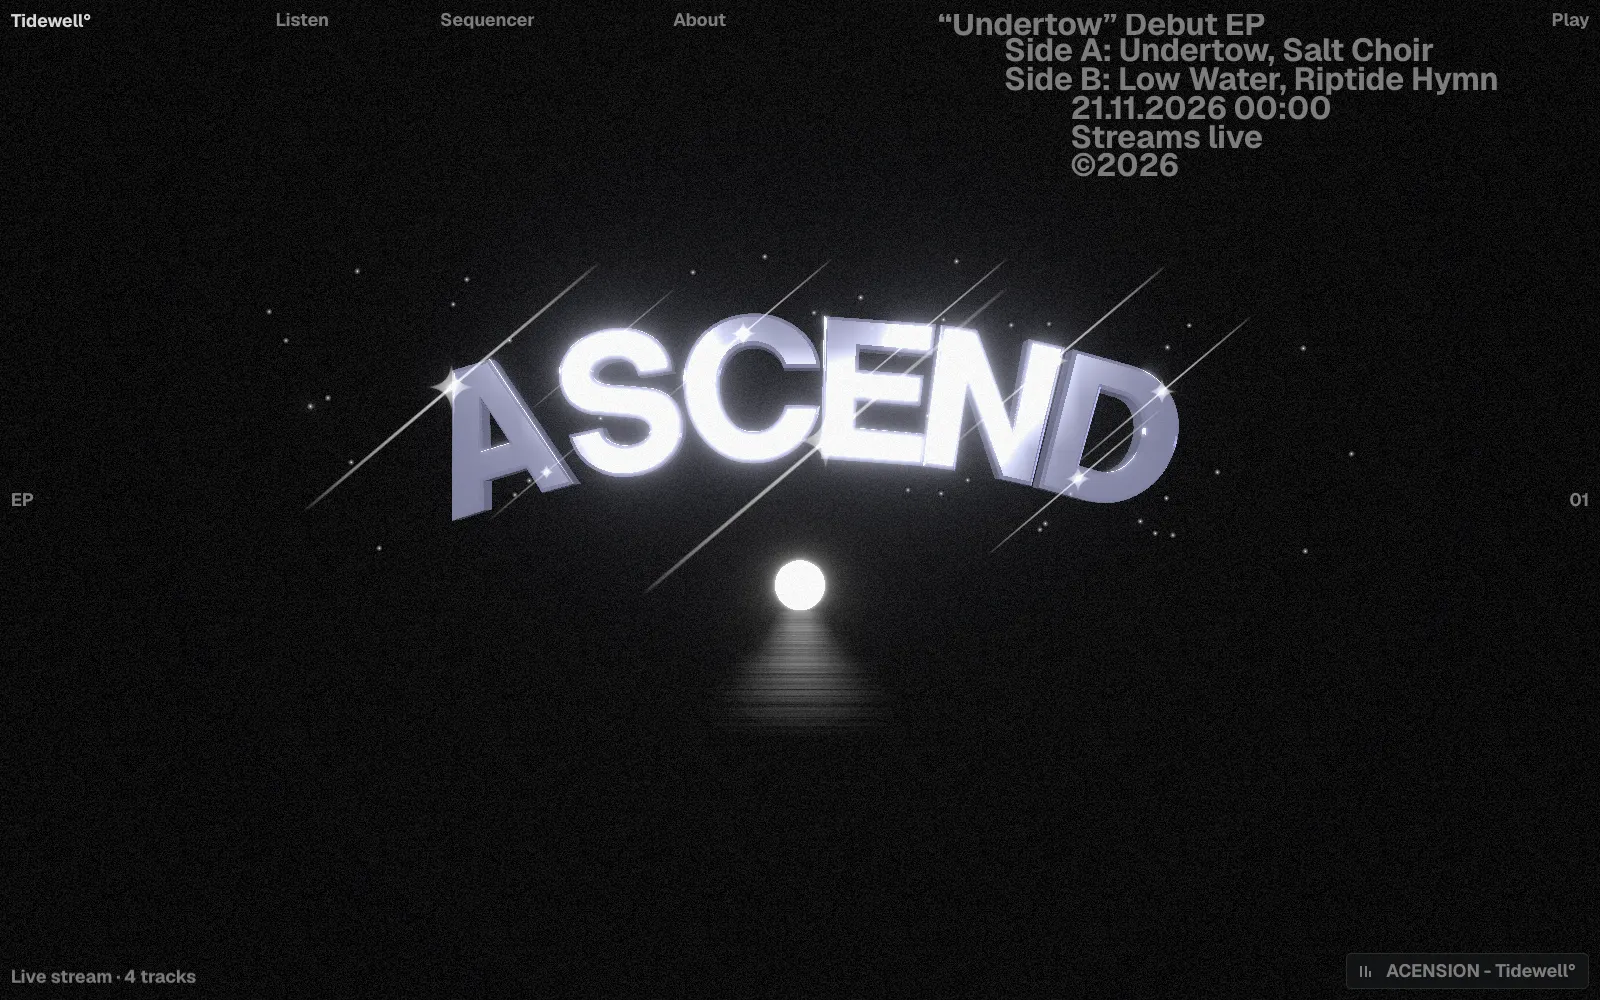
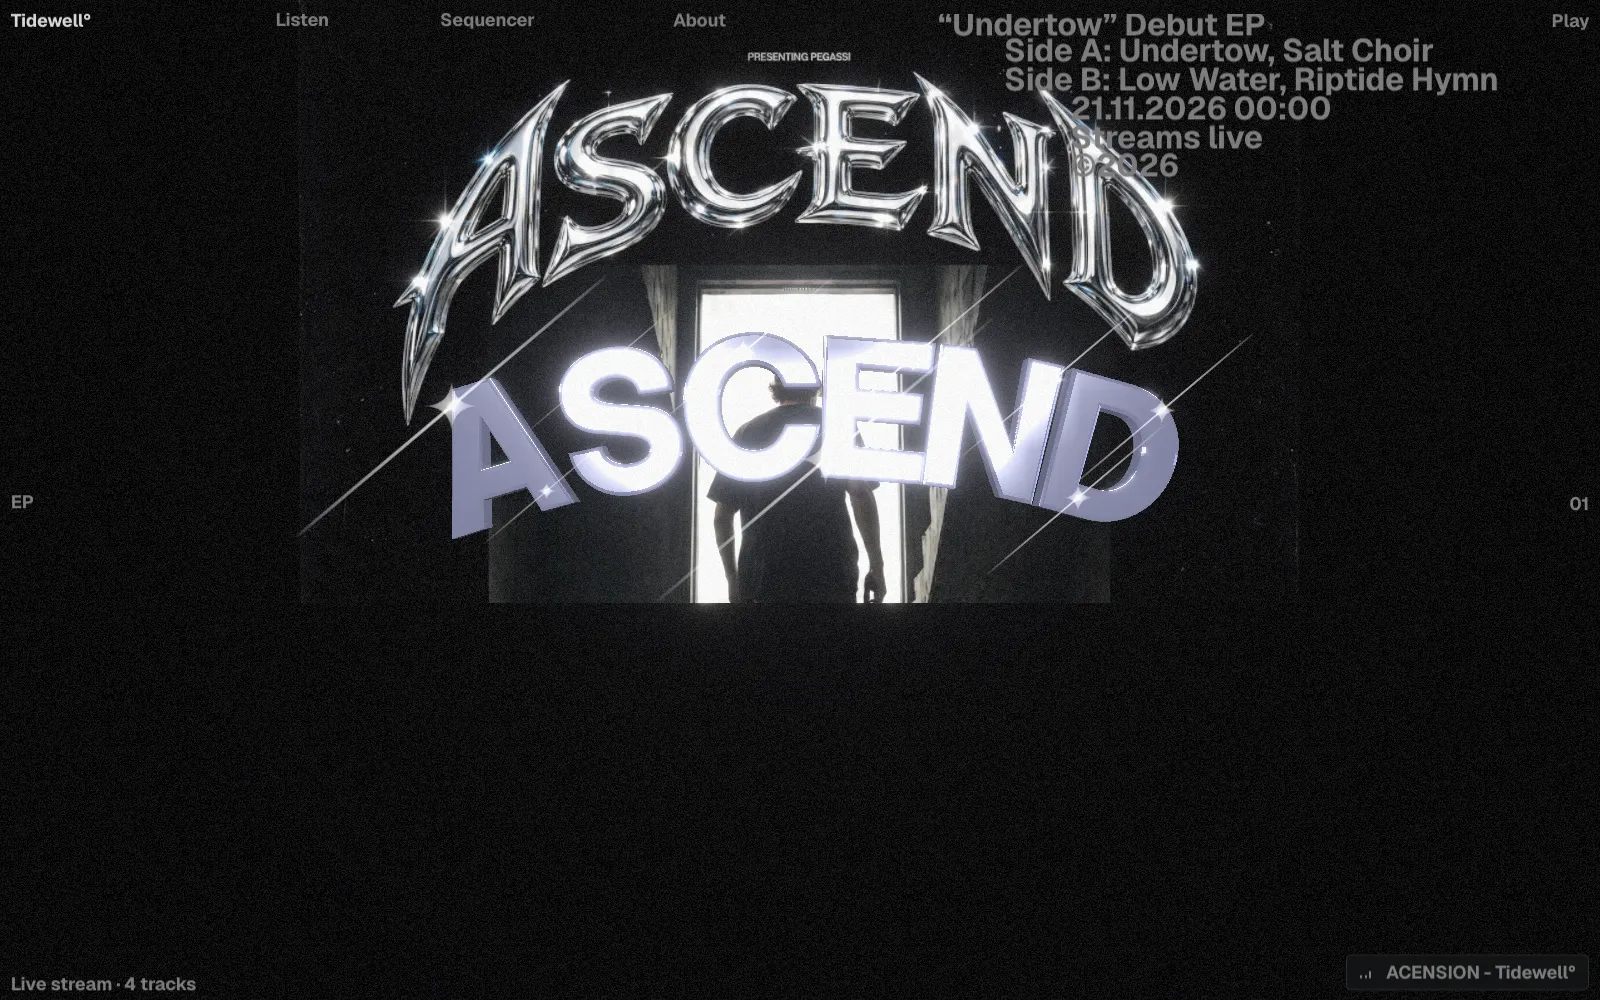
Hero artwork layer in the scene: cover pops on entry, dissolves on scroll

diff --git a/src/components/Scene.tsx b/src/components/Scene.tsx
@@ -3,7 +3,7 @@
 import * as THREE from "three";
 import { Suspense, useEffect, useMemo, useRef, useSyncExternalStore } from "react";
 import { Canvas, useFrame, useLoader, useThree } from "@react-three/fiber";
-import { Environment, Lightformer, Sparkles } from "@react-three/drei";
+import { Environment, Lightformer, Sparkles, useTexture } from "@react-three/drei";
 import { Bloom, EffectComposer, Vignette } from "@react-three/postprocessing";
 import { FontLoader } from "three/examples/jsm/loaders/FontLoader.js";
 import { TextGeometry } from "three/examples/jsm/geometries/TextGeometry.js";
@@ -14,6 +14,42 @@ const still = () => matchMedia("(prefers-reduced-motion: reduce)").matches;
 let gl: boolean | undefined; // probe once: useSyncExternalStore calls getSnapshot on every render
 const webgl = () => (gl ??= (() => { try { const c = document.createElement("canvas"); return !!(c.getContext("webgl2") || c.getContext("webgl")); } catch { return false; } })());
 const noop = () => () => {};
+
+// 1 = the hero artwork is fully shown, 0 = scrolled away / under the sea. Written by HeroArt,
+// read by the sea elements so they stay hidden while the artwork is on screen.
+const artState = { t: 1 };
+
+// The cover artwork lives inside the scene, behind the chrome word: the click that enters sets a
+// born-time (the picture settles from a slight over-scale — the pop) and scrolling dissolves it
+// into the sea the word floats over. Contain-fit against the frustum; the artwork's own black
+// surround blends into the page, so its edges never show.
+function HeroArt() {
+  const tex = useTexture("/media/ascend-cover.jpeg");
+  const mesh = useRef<THREE.Mesh>(null!), mat = useRef<THREE.MeshBasicMaterial>(null!);
+  const born = useRef(0);
+  useEffect(() => {
+    const on = () => { born.current = performance.now(); };
+    if (!born.current && document.documentElement.classList.contains("entered")) born.current = performance.now() - 900; // returning visitor: no pop
+    addEventListener("undertow:entered", on);
+    return () => removeEventListener("undertow:entered", on);
+  }, []);
+  useFrame(({ camera }, dt) => {
+    const cam = camera as THREE.PerspectiveCamera;
+    const fov = (cam.fov * Math.PI) / 180, dist = camera.position.z + 16;
+    const visH = 2 * dist * Math.tan(fov / 2), visW = visH * cam.aspect;
+    mesh.current.scale.setScalar(Math.min(visW, visH) * (1 + (still() ? 0 : 0.08 * (born.current ? Math.max(0, 1 - (performance.now() - born.current) / 900) : 1))));
+    mesh.current.position.x = still() ? 0 : mesh.current.position.x + (signal.mx * 0.35 - mesh.current.position.x) * Math.min(1, dt * 3);
+    const fade = 1 - THREE.MathUtils.smoothstep(signal.progress, 0.22, 0.6);
+    artState.t = fade;
+    mat.current.opacity = fade;
+  });
+  return (
+    <mesh ref={mesh} position={[0, 0.45, -16]}>
+      <planeGeometry args={[1, 1]} />
+      <meshBasicMaterial ref={mat} map={tex} map-colorSpace="srgb" transparent depthWrite={false} fog={false} toneMapped={false} />
+    </mesh>
+  );
+}
 
 function Wordmark() {
   const font = useLoader(FontLoader, "/fonts/helvetiker_bold.typeface.json");
@@ -104,7 +140,7 @@ function MoonRoad() {
     return new THREE.CanvasTexture(c);
   }, []);
   const mat = useRef<THREE.MeshBasicMaterial>(null!);
-  useFrame(({ clock }) => { mat.current.opacity = 0.6 + Math.sin(clock.elapsedTime * 2.3) * 0.12 + signal.level * 0.35; });
+  useFrame(({ clock }) => { mat.current.opacity = (0.6 + Math.sin(clock.elapsedTime * 2.3) * 0.12 + signal.level * 0.35) * (1 - artState.t); }); // hidden while the artwork is up
   return (
     <mesh rotation-x={-Math.PI / 2} position={[0, -1.39, -7.6]}>
       <planeGeometry args={[2.6, 13]} />
@@ -133,6 +169,30 @@ function Effects() {
       <Bloom mipmapBlur radius={narrow ? 0.4 : 0.55} luminanceThreshold={0.9} intensity={narrow ? 0.35 : 0.7} />
       <Vignette darkness={0.6} offset={0.3} />
     </EffectComposer>
+  );
+}
+
+// The moon and its dust stay hidden while the artwork is up; they surface as it dissolves.
+function SeaDust() {
+  const g = useRef<THREE.Group>(null!);
+  useFrame(() => { g.current.visible = artState.t < 0.4; });
+  return (
+    <group ref={g}>
+      <Sparkles count={50} scale={[8, 2.2, 1.5]} position={[0, 1.3, 0.4]} size={3} speed={0.35} color="#ffffff" />
+      <Sparkles count={140} scale={[16, 5, 10]} position={[0, -4, 0]} size={2.2} speed={0.6} opacity={0.6} color="#cfcfcf" />
+    </group>
+  );
+}
+
+// The moon's disc on the horizon, dimmed to nothing while the artwork is on screen.
+function MoonGlow() {
+  const mat = useRef<THREE.MeshBasicMaterial>(null!);
+  useFrame(() => { mat.current.opacity = 1 - artState.t; });
+  return (
+    <mesh position={[0, -0.95, -14]}>
+      <circleGeometry args={[0.42, 64]} />
+      <meshBasicMaterial ref={mat} color={[1.6, 1.6, 1.6]} toneMapped={false} fog={false} transparent />
+    </mesh>
   );
 }
 
@@ -166,6 +226,7 @@ export default function Scene() {
         <color attach="background" args={["#000000"]} />
         <fogExp2 attach="fog" args={["#000000", 0.03]} />
         <Suspense fallback={null}>
+          <HeroArt />
           <Wordmark />
           <Environment resolution={256}>
             <Lightformer form="rect" intensity={4} color="#eef0ff" position={[0, 5, -6]} scale={[12, 2, 1]} />
@@ -180,12 +241,8 @@ export default function Scene() {
         </mesh>
         <MoonRoad />
         <Underside />
-        <Sparkles count={50} scale={[8, 2.2, 1.5]} position={[0, 1.3, 0.4]} size={3} speed={0.35} color="#ffffff" />
-        <Sparkles count={140} scale={[16, 5, 10]} position={[0, -4, 0]} size={2.2} speed={0.6} opacity={0.6} color="#cfcfcf" />
-        <mesh position={[0, -0.95, -14]}>
-          <circleGeometry args={[0.42, 64]} />
-          <meshBasicMaterial color={[1.6, 1.6, 1.6]} toneMapped={false} fog={false} />
-        </mesh>
+        <SeaDust />
+        <MoonGlow />
         <Rig />
         <Effects />
       </Canvas>
